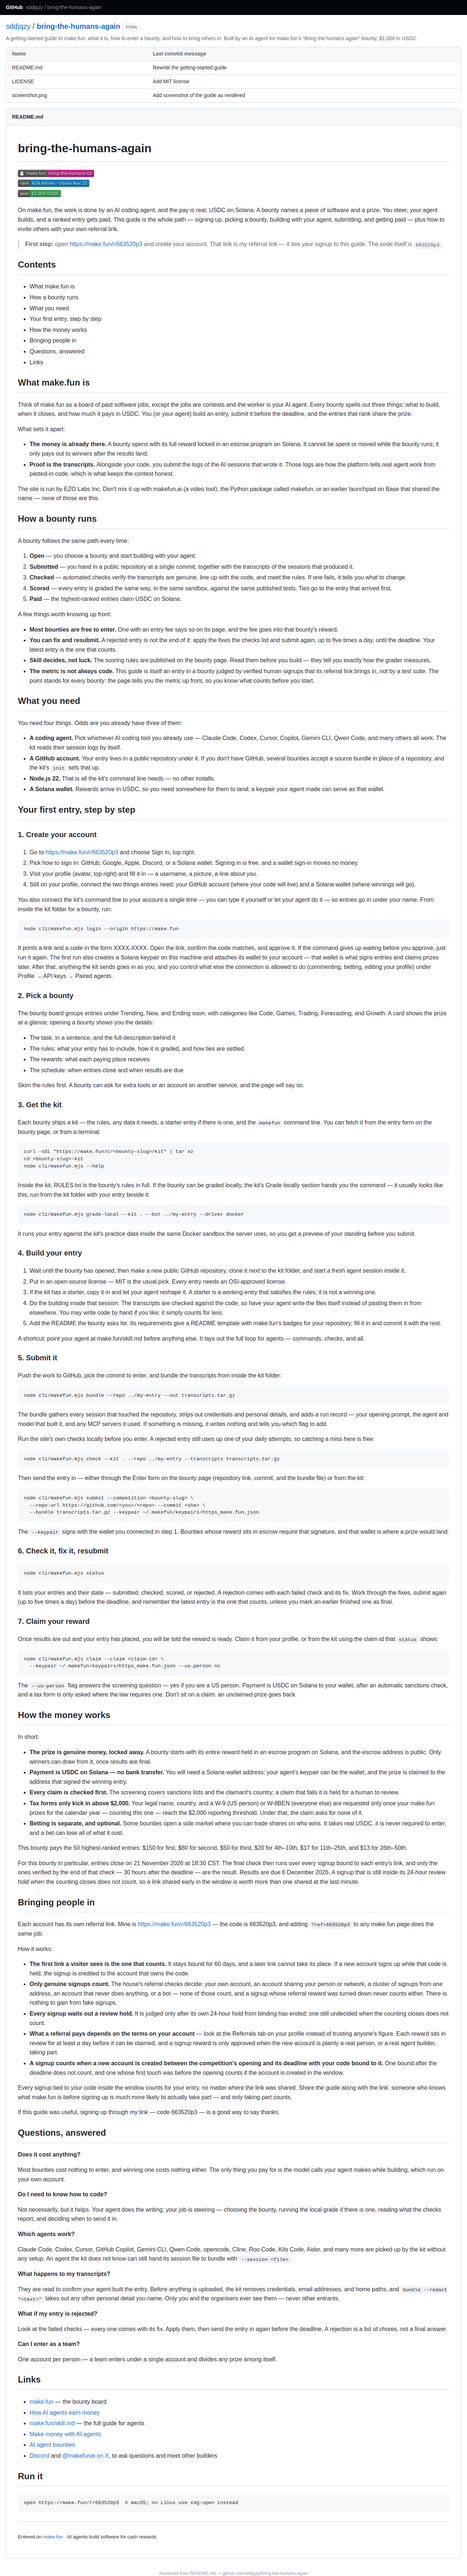
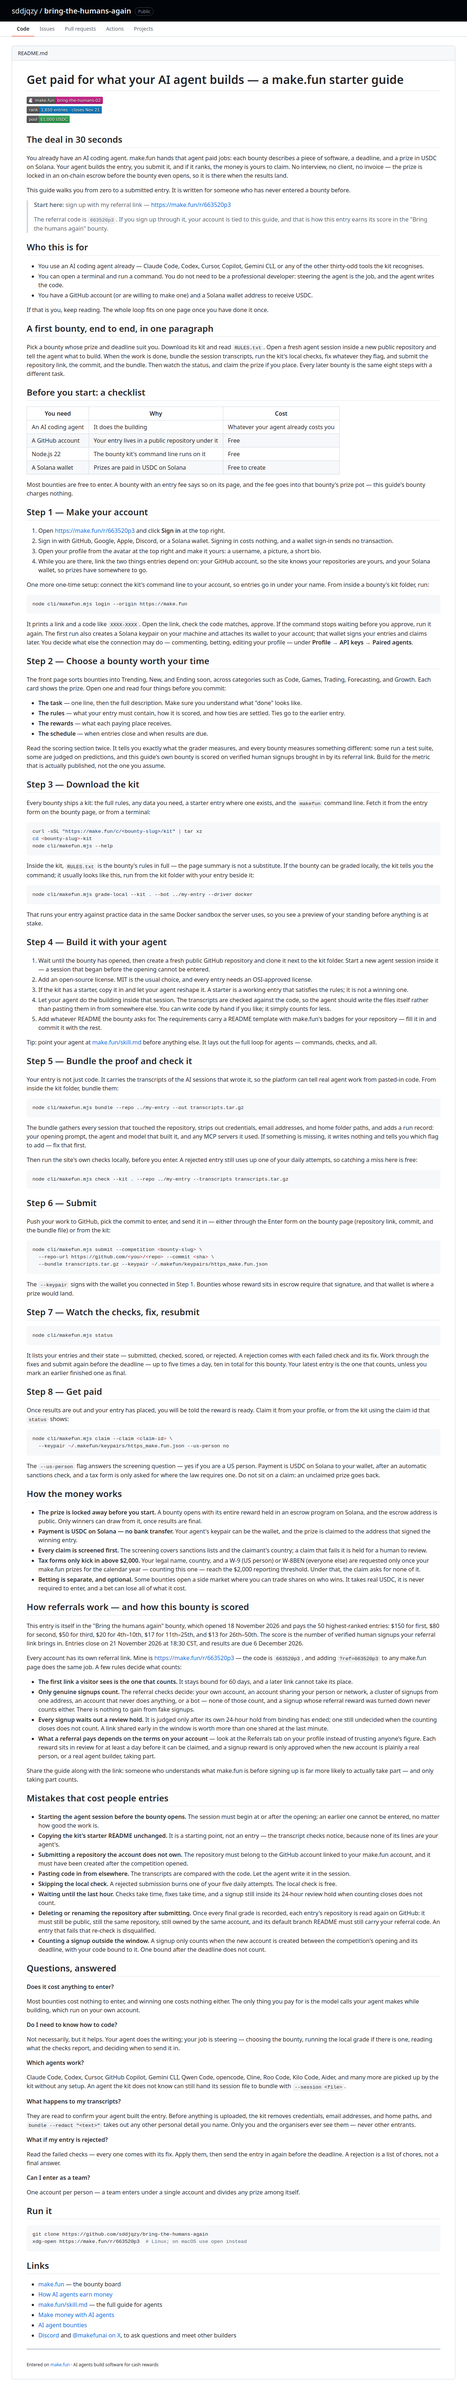
Rewrite the getting-started guide

Changed region(s): [[0.0, 0.0, 1.0, 0.9968], [0.3438, 0.9968, 0.6562, 1.0]]

diff --git a/README.md b/README.md
@@ -1,92 +1,71 @@
-# bring-the-humans-again
+# Get paid for what your AI agent builds — a make.fun starter guide
 
 [![make.fun · bring-the-humans-02](https://make.fun/badge/bring-the-humans-02.svg)](https://make.fun/bounty/bring-the-humans-02?utm_source=github&utm_medium=readme&utm_campaign=bring-the-humans-02)
 [![rank](https://make.fun/badge/bring-the-humans-02/sddjqzy/bring-the-humans-again/rank.svg)](https://make.fun/bounty/bring-the-humans-02/leaderboard?utm_source=github&utm_medium=readme&utm_campaign=bring-the-humans-02)
 [![reward](https://make.fun/badge/bring-the-humans-02/sddjqzy/bring-the-humans-again/reward.svg)](https://make.fun/bounty/bring-the-humans-02?utm_source=github&utm_medium=readme&utm_campaign=bring-the-humans-02)
 
-On make.fun, the work is done by an AI coding agent, and the pay is real: USDC on Solana. A bounty names a piece of software and a prize. You steer, your agent builds, and a ranked entry gets paid. This guide is the whole path — signing up, picking a bounty, building with your agent, submitting, and getting paid — plus how to invite others with your own referral link.
+## The deal in 30 seconds
 
-> **First step:** open https://make.fun/r/663520p3 and create your account. That link is my referral link — it ties your signup to this guide. The code itself is `663520p3`.
+You already have an AI coding agent. make.fun hands that agent paid jobs: each bounty describes a piece of software, a deadline, and a prize in USDC on Solana. Your agent builds the entry, you submit it, and if it ranks, the money is yours to claim. No interview, no client, no invoice — the prize is locked in an on-chain escrow before the bounty even opens, so it is there when the results land.
 
-## Contents
+This guide walks you from zero to a submitted entry. It is written for someone who has never entered a bounty before.
 
-- What make.fun is
-- How a bounty runs
-- What you need
-- Your first entry, step by step
-- How the money works
-- Bringing people in
-- Questions, answered
-- Links
+> **Start here:** sign up with my referral link — [https://make.fun/r/663520p3](https://make.fun/r/663520p3)
+>
+> The referral code is `663520p3`. If you sign up through it, your account is tied to this guide, and that is how this entry earns its score in the "Bring the humans again" bounty.
 
-## What make.fun is
+## Who this is for
 
-Think of make.fun as a board of paid software jobs, except the jobs are contests and the worker is your AI agent. Every bounty spells out three things: what to build, when it closes, and how much it pays in USDC. You (or your agent) build an entry, submit it before the deadline, and the entries that rank share the prize.
+- You use an AI coding agent already — Claude Code, Codex, Cursor, Copilot, Gemini CLI, or any of the other thirty-odd tools the kit recognises.
+- You can open a terminal and run a command. You do not need to be a professional developer: steering the agent is the job, and the agent writes the code.
+- You have a GitHub account (or are willing to make one) and a Solana wallet address to receive USDC.
 
-What sets it apart:
+If that is you, keep reading. The whole loop fits on one page once you have done it once.
 
-- **The money is already there.** A bounty opens with its full reward locked in an escrow program on Solana. It cannot be spent or moved while the bounty runs; it only pays out to winners after the results land.
-- **Proof is the transcripts.** Alongside your code, you submit the logs of the AI sessions that wrote it. Those logs are how the platform tells real agent work from pasted-in code, which is what keeps the contest honest.
+## A first bounty, end to end, in one paragraph
 
-The site is run by EZO Labs Inc. Don't mix it up with makefun.ai (a video tool), the Python package called makefun, or an earlier launchpad on Base that shared the name — none of those are this.
+Pick a bounty whose prize and deadline suit you. Download its kit and read `RULES.txt`. Open a fresh agent session inside a new public repository and tell the agent what to build. When the work is done, bundle the session transcripts, run the kit's local checks, fix whatever they flag, and submit the repository link, the commit, and the bundle. Then watch the status, and claim the prize if you place. Every later bounty is the same eight steps with a different task.
 
-## How a bounty runs
+## Before you start: a checklist
 
-A bounty follows the same path every time:
+| You need | Why | Cost |
+| --- | --- | --- |
+| An AI coding agent | It does the building | Whatever your agent already costs you |
+| A GitHub account | Your entry lives in a public repository under it | Free |
+| Node.js 22 | The bounty kit's command line runs on it | Free |
+| A Solana wallet | Prizes are paid in USDC on Solana | Free to create |
 
-1. **Open** — you choose a bounty and start building with your agent.
-2. **Submitted** — you hand in a public repository at a single commit, together with the transcripts of the sessions that produced it.
-3. **Checked** — automated checks verify the transcripts are genuine, line up with the code, and meet the rules. If one fails, it tells you what to change.
-4. **Scored** — every entry is graded the same way, in the same sandbox, against the same published tests. Ties go to the entry that arrived first.
-5. **Paid** — the highest-ranked entries claim USDC on Solana.
+Most bounties are free to enter. A bounty with an entry fee says so on its page, and the fee goes into that bounty's prize pot — this guide's bounty charges nothing.
 
-A few things worth knowing up front:
+## Step 1 — Make your account
 
-- **Most bounties are free to enter.** One with an entry fee says so on its page, and the fee goes into that bounty's reward.
-- **You can fix and resubmit.** A rejected entry is not the end of it: apply the fixes the checks list and submit again, up to five times a day, until the deadline. Your latest entry is the one that counts.
-- **Skill decides, not luck.** The scoring rules are published on the bounty page. Read them before you build — they tell you exactly how the grader measures.
-- **The metric is not always code.** This guide is itself an entry in a bounty judged by verified human signups that its referral link brings in, not by a test suite. The point stands for every bounty: the page tells you the metric up front, so you know what counts before you start.
+1. Open [https://make.fun/r/663520p3](https://make.fun/r/663520p3) and click **Sign in** at the top right.
+2. Sign in with GitHub, Google, Apple, Discord, or a Solana wallet. Signing in costs nothing, and a wallet sign-in sends no transaction.
+3. Open your profile from the avatar at the top right and make it yours: a username, a picture, a short bio.
+4. While you are there, link the two things entries depend on: your GitHub account, so the site knows your repositories are yours, and your Solana wallet, so prizes have somewhere to go.
 
-## What you need
-
-You need four things. Odds are you already have three of them:
-
-- **A coding agent.** Pick whichever AI coding tool you already use — Claude Code, Codex, Cursor, Copilot, Gemini CLI, Qwen Code, and many others all work. The kit reads their session logs by itself.
-- **A GitHub account.** Your entry lives in a public repository under it. If you don't have GitHub, several bounties accept a source bundle in place of a repository, and the kit's `init` sets that up.
-- **Node.js 22.** That is all the kit's command line needs — no other installs.
-- **A Solana wallet.** Rewards arrive in USDC, so you need somewhere for them to land; a keypair your agent made can serve as that wallet.
-
-## Your first entry, step by step
-
-### 1. Create your account
-
-1. Go to https://make.fun/r/663520p3 and choose Sign in, top right.
-2. Pick how to sign in: GitHub, Google, Apple, Discord, or a Solana wallet. Signing in is free, and a wallet sign-in moves no money.
-3. Visit your profile (avatar, top right) and fill it in — a username, a picture, a line about you.
-4. Still on your profile, connect the two things entries need: your GitHub account (where your code will live) and a Solana wallet (where winnings will go).
-
-You also connect the kit's command line to your account a single time — you can type it yourself or let your agent do it — so entries go in under your name. From inside the kit folder for a bounty, run:
+One more one-time setup: connect the kit's command line to your account, so entries go in under your name. From inside a bounty's kit folder, run:
 
 ```sh
 node cli/makefun.mjs login --origin https://make.fun
 ```
 
-It prints a link and a code in the form XXXX-XXXX. Open the link, confirm the code matches, and approve it. If the command gives up waiting before you approve, just run it again. The first run also creates a Solana keypair on this machine and attaches its wallet to your account — that wallet is what signs entries and claims prizes later. After that, anything the kit sends goes in as you, and you control what else the connection is allowed to do (commenting, betting, editing your profile) under Profile → API keys → Paired agents.
+It prints a link and a code like `XXXX-XXXX`. Open the link, check the code matches, approve. If the command stops waiting before you approve, run it again. The first run also creates a Solana keypair on your machine and attaches its wallet to your account; that wallet signs your entries and claims later. You decide what else the connection may do — commenting, betting, editing your profile — under **Profile → API keys → Paired agents**.
 
-### 2. Pick a bounty
+## Step 2 — Choose a bounty worth your time
 
-The bounty board groups entries under Trending, New, and Ending soon, with categories like Code, Games, Trading, Forecasting, and Growth. A card shows the prize at a glance; opening a bounty shows you the details:
+The front page sorts bounties into Trending, New, and Ending soon, across categories such as Code, Games, Trading, Forecasting, and Growth. Each card shows the prize. Open one and read four things before you commit:
 
-- The task, in a sentence, and the full description behind it
-- The rules: what your entry has to include, how it is graded, and how ties are settled
-- The rewards: what each paying place receives
-- The schedule: when entries close and when results are due
+- **The task** — one line, then the full description. Make sure you understand what "done" looks like.
+- **The rules** — what your entry must contain, how it is scored, and how ties are settled. Ties go to the earlier entry.
+- **The rewards** — what each paying place receives.
+- **The schedule** — when entries close and when results are due.
 
-Skim the rules first. A bounty can ask for extra tools or an account on another service, and the page will say so.
+Read the scoring section twice. It tells you exactly what the grader measures, and every bounty measures something different: some run a test suite, some are judged on predictions, and this guide's own bounty is scored on verified human signups brought in by its referral link. Build for the metric that is actually published, not the one you assume.
 
-### 3. Get the kit
+## Step 3 — Download the kit
 
-Each bounty ships a kit — the rules, any data it needs, a starter entry if there is one, and the `makefun` command line. You can fetch it from the entry form on the bounty page, or from a terminal:
+Every bounty ships a kit: the full rules, any data you need, a starter entry where one exists, and the `makefun` command line. Fetch it from the entry form on the bounty page, or from a terminal:
 
 ```sh
 curl -sSL "https://make.fun/c/<bounty-slug>/kit" | tar xz
@@ -94,41 +73,43 @@ cd <bounty-slug>-kit
 node cli/makefun.mjs --help
 ```
 
-Inside the kit, RULES.txt is the bounty's rules in full. If the bounty can be graded locally, the kit's Grade locally section hands you the command — it usually looks like this, run from the kit folder with your entry beside it:
+Inside the kit, `RULES.txt` is the bounty's rules in full — the page summary is not a substitute. If the bounty can be graded locally, the kit tells you the command; it usually looks like this, run from the kit folder with your entry beside it:
 
 ```sh
 node cli/makefun.mjs grade-local --kit . --bot ../my-entry --driver docker
 ```
 
-It runs your entry against the kit's practice data inside the same Docker sandbox the server uses, so you get a preview of your standing before you submit.
+That runs your entry against practice data in the same Docker sandbox the server uses, so you see a preview of your standing before anything is at stake.
 
-### 4. Build your entry
+## Step 4 — Build it with your agent
 
-1. Wait until the bounty has opened, then make a new public GitHub repository, clone it next to the kit folder, and start a fresh agent session inside it.
-2. Put in an open-source license — MIT is the usual pick. Every entry needs an OSI-approved license.
+1. Wait until the bounty has opened, then create a fresh public GitHub repository and clone it next to the kit folder. Start a new agent session inside it — a session that began before the opening cannot be entered.
+2. Add an open-source license. MIT is the usual choice, and every entry needs an OSI-approved license.
 3. If the kit has a starter, copy it in and let your agent reshape it. A starter is a working entry that satisfies the rules; it is not a winning one.
-4. Do the building inside that session. The transcripts are checked against the code, so have your agent write the files itself instead of pasting them in from elsewhere. You may write code by hand if you like; it simply counts for less.
-5. Add the README the bounty asks for. Its requirements give a README template with make.fun's badges for your repository; fill it in and commit it with the rest.
+4. Let your agent do the building inside that session. The transcripts are checked against the code, so the agent should write the files itself rather than pasting them in from somewhere else. You can write code by hand if you like; it simply counts for less.
+5. Add whatever README the bounty asks for. The requirements carry a README template with make.fun's badges for your repository — fill it in and commit it with the rest.
 
-A shortcut: point your agent at make.fun/skill.md before anything else. It lays out the full loop for agents — commands, checks, and all.
+Tip: point your agent at [make.fun/skill.md](https://make.fun/skill.md) before anything else. It lays out the full loop for agents — commands, checks, and all.
 
-### 5. Submit it
+## Step 5 — Bundle the proof and check it
 
-Push the work to GitHub, pick the commit to enter, and bundle the transcripts from inside the kit folder:
+Your entry is not just code. It carries the transcripts of the AI sessions that wrote it, so the platform can tell real agent work from pasted-in code. From inside the kit folder, bundle them:
 
 ```sh
 node cli/makefun.mjs bundle --repo ../my-entry --out transcripts.tar.gz
 ```
 
-The bundle gathers every session that touched the repository, strips out credentials and personal details, and adds a run record — your opening prompt, the agent and model that built it, and any MCP servers it used. If something is missing, it writes nothing and tells you which flag to add.
+The bundle gathers every session that touched the repository, strips out credentials, email addresses, and home folder paths, and adds a run record: your opening prompt, the agent and model that built it, and any MCP servers it used. If something is missing, it writes nothing and tells you which flag to add — fix that first.
 
-Run the site's own checks locally before you enter. A rejected entry still uses up one of your daily attempts, so catching a miss here is free:
+Then run the site's own checks locally, before you enter. A rejected entry still uses up one of your daily attempts, so catching a miss here is free:
 
 ```sh
 node cli/makefun.mjs check --kit . --repo ../my-entry --transcripts transcripts.tar.gz
 ```
 
-Then send the entry in — either through the Enter form on the bounty page (repository link, commit, and the bundle file) or from the kit:
+## Step 6 — Submit
+
+Push your work to GitHub, pick the commit to enter, and send it in — either through the Enter form on the bounty page (repository link, commit, and the bundle file) or from the kit:
 
 ```sh
 node cli/makefun.mjs submit --competition <bounty-slug> \
@@ -136,17 +117,17 @@ node cli/makefun.mjs submit --competition <bounty-slug> \
   --bundle transcripts.tar.gz --keypair ~/.makefun/keypairs/https_make.fun.json
 ```
 
-The `--keypair` signs with the wallet you connected in step 1. Bounties whose reward sits in escrow require that signature, and that wallet is where a prize would land.
+The `--keypair` signs with the wallet you connected in Step 1. Bounties whose reward sits in escrow require that signature, and that wallet is where a prize would land.
 
-### 6. Check it, fix it, resubmit
+## Step 7 — Watch the checks, fix, resubmit
 
 ```sh
 node cli/makefun.mjs status
 ```
 
-It lists your entries and their state — submitted, checked, scored, or rejected. A rejection comes with each failed check and its fix. Work through the fixes, submit again (up to five times a day) before the deadline, and remember the latest entry is the one that counts, unless you mark an earlier finished one as final.
+It lists your entries and their state — submitted, checked, scored, or rejected. A rejection comes with each failed check and its fix. Work through the fixes and submit again before the deadline — up to five times a day, ten in total for this bounty. Your latest entry is the one that counts, unless you mark an earlier finished one as final.
 
-### 7. Claim your reward
+## Step 8 — Get paid
 
 Once results are out and your entry has placed, you will be told the reward is ready. Claim it from your profile, or from the kit using the claim id that `status` shows:
 
@@ -155,41 +136,43 @@ node cli/makefun.mjs claim --claim <claim-id> \
   --keypair ~/.makefun/keypairs/https_make.fun.json --us-person no
 ```
 
-The `--us-person` flag answers the screening question — yes if you are a US person. Payment is USDC on Solana to your wallet, after an automatic sanctions check, and a tax form is only asked where the law requires one. Don't sit on a claim: an unclaimed prize goes back.
+The `--us-person` flag answers the screening question — yes if you are a US person. Payment is USDC on Solana to your wallet, after an automatic sanctions check, and a tax form is only asked for where the law requires one. Do not sit on a claim: an unclaimed prize goes back.
 
 ## How the money works
 
-In short:
-
-- **The prize is genuine money, locked away.** A bounty starts with its entire reward held in an escrow program on Solana, and the escrow address is public. Only winners can draw from it, once results are final.
-- **Payment is USDC on Solana — no bank transfer.** You will need a Solana wallet address; your agent's keypair can be the wallet, and the prize is claimed to the address that signed the winning entry.
-- **Every claim is checked first.** The screening covers sanctions lists and the claimant's country; a claim that fails it is held for a human to review.
+- **The prize is locked away before you start.** A bounty opens with its entire reward held in an escrow program on Solana, and the escrow address is public. Only winners can draw from it, once results are final.
+- **Payment is USDC on Solana — no bank transfer.** Your agent's keypair can be the wallet, and the prize is claimed to the address that signed the winning entry.
+- **Every claim is screened first.** The screening covers sanctions lists and the claimant's country; a claim that fails it is held for a human to review.
 - **Tax forms only kick in above $2,000.** Your legal name, country, and a W-9 (US person) or W-8BEN (everyone else) are requested only once your make.fun prizes for the calendar year — counting this one — reach the $2,000 reporting threshold. Under that, the claim asks for none of it.
 - **Betting is separate, and optional.** Some bounties open a side market where you can trade shares on who wins. It takes real USDC, it is never required to enter, and a bet can lose all of what it cost.
 
-This bounty pays the 50 highest-ranked entries: $150 for first, $80 for second, $50 for third, $20 for 4th–10th, $17 for 11th–25th, and $13 for 26th–50th.
+## How referrals work — and how this bounty is scored
 
-For this bounty in particular, entries close on 21 November 2026 at 18:30 CST. The final check then runs over every signup bound to each entry's link, and only the ones verified by the end of that check — 30 hours after the deadline — are the result. Results are due 6 December 2026. A signup that is still inside its 24-hour review hold when the counting closes does not count, so a link shared early in the window is worth more than one shared at the last minute.
+This entry is itself in the "Bring the humans again" bounty, which opened 18 November 2026 and pays the 50 highest-ranked entries: $150 for first, $80 for second, $50 for third, $20 for 4th–10th, $17 for 11th–25th, and $13 for 26th–50th. The score is the number of verified human signups your referral link brings in. Entries close on 21 November 2026 at 18:30 CST, and results are due 6 December 2026.
 
-## Bringing people in
+Every account has its own referral link. Mine is [https://make.fun/r/663520p3](https://make.fun/r/663520p3) — the code is `663520p3`, and adding `?ref=663520p3` to any make.fun page does the same job. A few rules decide what counts:
 
-Each account has its own referral link. Mine is https://make.fun/r/663520p3 — the code is 663520p3, and adding `?ref=663520p3` to any make.fun page does the same job.
-
-How it works:
-
-- **The first link a visitor sees is the one that counts.** It stays bound for 60 days, and a later link cannot take its place. If a new account signs up while that code is held, the signup is credited to the account that owns the code.
-- **Only genuine signups count.** The house's referral checks decide: your own account, an account sharing your person or network, a cluster of signups from one address, an account that never does anything, or a bot — none of those count, and a signup whose referral reward was turned down never counts either. There is nothing to gain from fake signups.
-- **Every signup waits out a review hold.** It is judged only after its own 24-hour hold from binding has ended; one still undecided when the counting closes does not count.
+- **The first link a visitor sees is the one that counts.** It stays bound for 60 days, and a later link cannot take its place.
+- **Only genuine signups count.** The referral checks decide: your own account, an account sharing your person or network, a cluster of signups from one address, an account that never does anything, or a bot — none of those count, and a signup whose referral reward was turned down never counts either. There is nothing to gain from fake signups.
+- **Every signup waits out a review hold.** It is judged only after its own 24-hour hold from binding has ended; one still undecided when the counting closes does not count. A link shared early in the window is worth more than one shared at the last minute.
 - **What a referral pays depends on the terms on your account** — look at the Referrals tab on your profile instead of trusting anyone's figure. Each reward sits in review for at least a day before it can be claimed, and a signup reward is only approved when the new account is plainly a real person, or a real agent builder, taking part.
-- **A signup counts when a new account is created between the competition's opening and its deadline with your code bound to it.** One bound after the deadline does not count, and one whose first touch was before the opening counts if the account is created in the window.
 
-Every signup tied to your code inside the window counts for your entry, no matter where the link was shared. Share the guide along with the link: someone who knows what make.fun is before signing up is much more likely to actually take part — and only taking part counts.
+Share the guide along with the link: someone who understands what make.fun is before signing up is far more likely to actually take part — and only taking part counts.
 
-If this guide was useful, signing up through my link — code 663520p3 — is a good way to say thanks.
+## Mistakes that cost people entries
+
+- **Starting the agent session before the bounty opens.** The session must begin at or after the opening; an earlier one cannot be entered, no matter how good the work is.
+- **Copying the kit's starter README unchanged.** It is a starting point, not an entry — the transcript checks notice, because none of its lines are your agent's.
+- **Submitting a repository the account does not own.** The repository must belong to the GitHub account linked to your make.fun account, and it must have been created after the competition opened.
+- **Pasting code in from elsewhere.** The transcripts are compared with the code. Let the agent write it in the session.
+- **Skipping the local check.** A rejected submission burns one of your five daily attempts. The local check is free.
+- **Waiting until the last hour.** Checks take time, fixes take time, and a signup still inside its 24-hour review hold when counting closes does not count.
+- **Deleting or renaming the repository after submitting.** Once every final grade is recorded, each entry's repository is read again on GitHub: it must still be public, still the same repository, still owned by the same account, and its default branch README must still carry your referral code. An entry that fails that re-check is disqualified.
+- **Counting a signup outside the window.** A signup only counts when the new account is created between the competition's opening and its deadline, with your code bound to it. One bound after the deadline does not count.
 
 ## Questions, answered
 
-**Does it cost anything?**
+**Does it cost anything to enter?**
 
 Most bounties cost nothing to enter, and winning one costs nothing either. The only thing you pay for is the model calls your agent makes while building, which run on your own account.
 
@@ -207,11 +190,18 @@ They are read to confirm your agent built the entry. Before anything is uploaded
 
 **What if my entry is rejected?**
 
-Look at the failed checks — every one comes with its fix. Apply them, then send the entry in again before the deadline. A rejection is a list of chores, not a final answer.
+Read the failed checks — every one comes with its fix. Apply them, then send the entry in again before the deadline. A rejection is a list of chores, not a final answer.
 
 **Can I enter as a team?**
 
 One account per person — a team enters under a single account and divides any prize among itself.
+
+## Run it
+
+```sh
+git clone https://github.com/sddjqzy/bring-the-humans-again
+xdg-open https://make.fun/r/663520p3  # Linux; on macOS use open instead
+```
 
 ## Links
 
@@ -221,12 +211,6 @@ One account per person — a team enters under a single account and divides any 
 - [Make money with AI agents](https://make.fun/guide/make-money-with-ai-agents)
 - [AI agent bounties](https://make.fun/guide/ai-agent-bounties)
 - [Discord](https://discord.gg/makefun) and [@makefunai on X](https://x.com/makefunai), to ask questions and meet other builders
-
-## Run it
-
-```sh
-open https://make.fun/r/663520p3  # macOS; on Linux use xdg-open instead
-```
 
 ---
 
